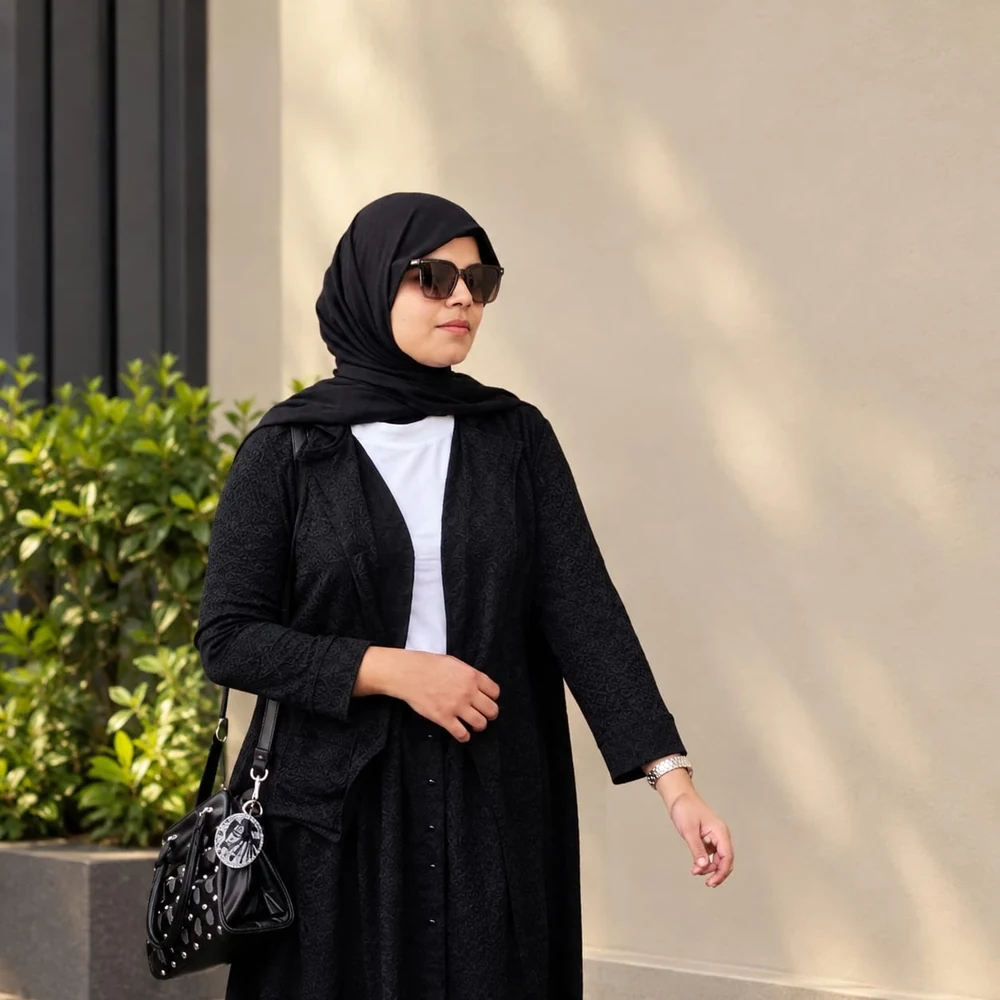
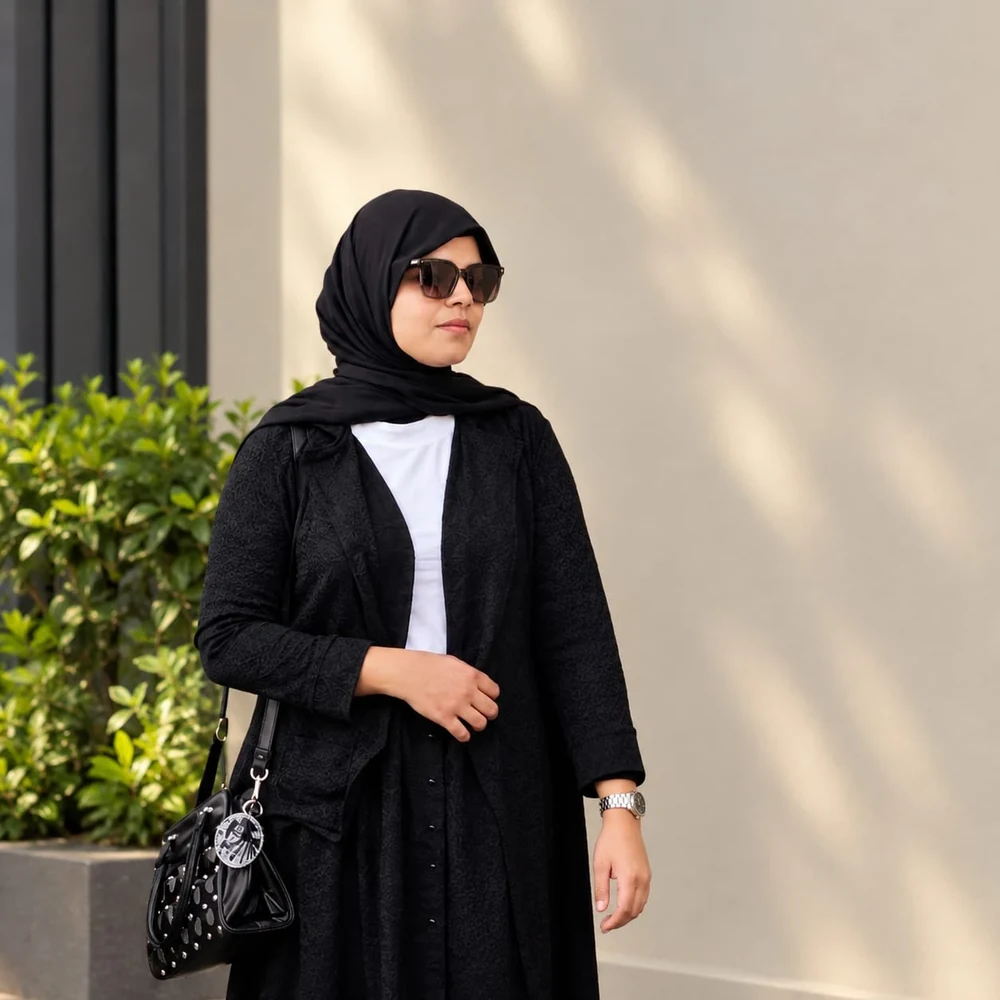
Update About me photo

diff --git a/index.html b/index.html
@@ -277,7 +277,7 @@ footer{padding:28px 0;text-align:center;color:var(--muted);font-size:13px;border
 <!-- ABOUT -->
 <section id="about">
   <div class="wrap about">
-    <div class="about-photo rv"><img src="assets/ancymol-about.webp" alt="Ancymol KK" width="1000" height="1000" loading="lazy"></div>
+    <div class="about-photo rv"><img src="assets/ancymol-about.webp?v=2" alt="Ancymol KK" width="1000" height="1000" loading="lazy"></div>
     <div class="rv">
       <div class="eyebrow">// About me</div>
       <h2>Developer who owns the whole project</h2>
